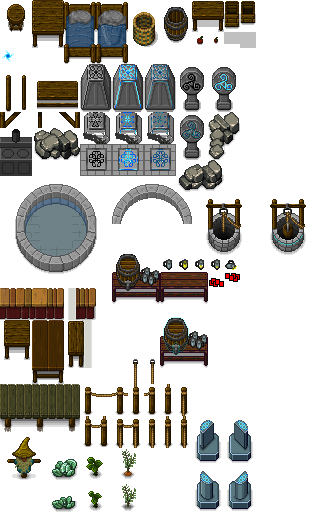
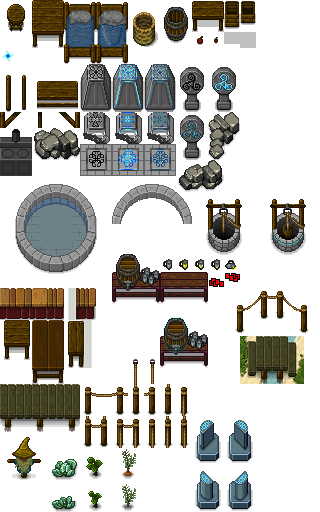
add bridge to se island

Changed region(s): [[0.7188, 0.5625, 0.9688, 0.75]]

diff --git a/js/worldGen.js b/js/worldGen.js
@@ -861,9 +861,9 @@ class WorldGen {
                     "0003","0X2j","0X2j","0X2j","0002","0002","0002","0X4b","0002","0002","0002","0002","0002","0002","0002","0002",
                     "0003","0003","0003","0002","0002","0002","0002","0002","0002","0002","0002","0X2j","0X2j","0002","0002","0002",
                     "0003","0003","0003","0002","0002","0002","0002","0002","0002","0002","0X2j","0X2j","0X2j","0002","0002","0002",
-                    "0X2j","0X2j","0X2j","0002","0002","0002","0002","0002","0002","0X2j","0X2j","0X2j","0X2j","0X2j","0002","0002",
-                    "0X2j","0X2j","0X2j","0002","0002","0002","0002","0002","0X2j","0X2j","0X2j","0X2j","0X2j","0X2j","0002","0002",
-                    "0X2j","0002","0002","0002","0002","0002","0002","0X2j","0X2j","0X2j","0X2j","0X2j","0X2j","0X2j","0002","0002",
+                    "0X2j","0X2j","0X2j","0000","0000","0000","0000","0002","0002","0X2j","0X2j","0X2j","0X2j","0X2j","0002","0002",
+                    "0X2j","0X2j","0X2j","0000","0000","0000","0000","0002","0X2j","0X2j","0X2j","0X2j","0X2j","0X2j","0002","0002",
+                    "0X2j","0002","0002","003k","0000","0000","0000","0X2j","0X2j","0X2j","0X2j","0X2j","0X2j","0X2j","0002","0002",
                     "0002","0002","0002","0002","0002","0002","0002","0X2j","0X2j","0X2j","0X2j","0X2j","0X2j","0X2j","0002","0002",
                     "0002","0002","0002","0X4c","0X4e","0002","0002","0X2j","0X2j","0X2j","0X2j","0X2j","0X2j","0X2j","0002","0002",
                     "0X4d","0X4d","0X4d","0X4h","0X4g","0002","0002","0X2j","0X2j","0X2j","0X2j","0X2j","0X2j","0X2j","0002","0002",
@@ -879,9 +879,9 @@ class WorldGen {
                     "0X2m","0000","0000","0000","0X2n","0X2o","0X3f","0000","0X3n","0X3o","0X2c","0X2d","0X2d","0X2e","0X3k","0X3m",
                     "0X2a","0X2l","0X2m","0X2n","0X2o","0X3c","0X3h","0X3n","0X3o","0X2c","0X2h","0000","0000","0X2g","0000","0X3f",
                     "0X2i","0X2d","0X2h","0X2g","0X3c","0X3h","0X3n","0X3o","0X2c","0X2h","0000","0000","0000","0X2i","0X2e","0X3f",
-                    "0000","0000","0000","0X2g","0X3f","0X3n","0X3o","0X2c","0X2h","0000","0000","0000","0000","0000","0X2g","0X3f",
-                    "0000","0000","0000","0X2g","0X3f","0X3g","0X2c","0X2h","0000","0000","0000","0000","0000","0000","0X2g","0X3f",
-                    "0000","0X2n","0X2l","0X2o","0X3f","0X3g","0X2f","0000","0000","0000","0000","0000","0000","0000","0X2g","0X3f",
+                    "0000","0000","0000","0000","0000","0000","0000","0X2c","0X2h","0000","0000","0000","0000","0000","0X2g","0X3f",
+                    "0000","0000","0000","0000","0000","0000","0000","0X2h","0000","0000","0000","0000","0000","0000","0X2g","0X3f",
+                    "0000","0X2n","0X2l","0000","0000","0000","0000","0000","0000","0000","0000","0000","0000","0000","0X2g","0X3f",
                     "0X2l","0X2o","0X3c","0X3d","0X3h","0X3g","0X2f","0000","0000","0000","0000","0000","0000","0000","0X2g","0X3f",
                     "0X3d","0X3d","0X3h","0000","0000","0X3g","0X2f","0000","0000","0000","0000","0000","0000","0000","0X2g","0X3f",
                     "0000","0000","0000","0000","0000","0X3g","0X2f","0000","0000","0000","0000","0000","0000","0000","0X2g","0X3f",
@@ -909,81 +909,79 @@ class WorldGen {
                     "0000","0000","0000","0000","0000","0000","0000","0000","0000","0000","0000","0000","0000","0000","0000","0000",
                 ],
             },
-            l2: {
-            },
         },
     };
 
-static vendor1 = {
-    tag: "vendor1",
-    columns: 13,
-    rows: 12,
-    offx: 46,
-    offy: 25,
-    autoArea: true,
-    layers: {
-        l1: {
-            bg: [
-                "0000","0000","0003","0003","0003","0000","0000","0000","0000","0000","0000","0000","0000",
-                "0000","0003","0003","0003","0003","0000","0000","0000","0000","0000","0000","0000","0000",
-                "0000","0003","0003","0003","0003","0003","0000","0000","0000","0000","0000","0000","0000",
-                "0003","0003","0003","0003","0003","0003","0003","0003","0000","0000","0000","0000","0000",
-                "0003","0003","0003","0003","0003","0003","0003","0003","0003","0000","0000","0000","0000",
-                "0003","0003","0003","0003","0003","0003","0003","0003","0003","0000","0000","0000","0000",
-                "0003","0003","0003","0003","0003","0003","0003","0003","0003","0003","0003","0003","0000",
-                "0003","0003","0003","0003","0003","0003","0003","0003","0003","0003","0003","0003","0003",
-                "0000","0003","0003","0003","0003","0003","0003","0003","0003","0000","0000","0003","0003",
-                "0000","0000","0000","0003","0000","0000","0003","0000","0000","0000","0000","0000","0000",
-                "0000","0000","0000","0003","0000","0000","0003","0000","0000","0000","0000","0000","0000",
-                "0000","0000","0000","0000","0003","0003","0000","0000","0000","0000","0000","0000","0000",
-            ],
-            bgo: [
-                "0000","0000","0X2n","0X2l","0X2m","0000","0000","0000","0000","0000","0000","0000","0000",
-                "0000","0X2n","0X2o","0000","0X2f","0000","0000","0000","0000","0000","0000","0000","0000",
-                "0000","0X2g","0000","0000","0X2k","0X2m","0000","0000","0000","0000","0000","0000","0000",
-                "0X2n","0X2o","0000","0000","0000","0X2k","0X2l","0X2m","0000","0000","0000","0000","0000",
-                "0X2g","0000","0000","0000","0000","0000","0000","0X2k","0X2m","0000","0000","0000","0000",
-                "0X2g","0000","0000","0000","0000","0000","0000","0X2c","0X2h","0000","0000","0000","0000",
-                "0X2g","0000","0000","0000","0000","0000","0000","0X2f","0X2n","0X2m","0X2n","0X2m","0000",
-                "0X2i","0X2e","0000","0000","0000","0000","0000","0X2k","0X2b","0X2h","0X2i","0X2a","0X2m",
-                "0000","0X2i","0X2d","0X2e","0003","0003","0X2c","0X2d","0X2h","0000","0000","0X2i","0X2h",
-                "0000","0000","0000","0X2g","0000","0000","0X2f","0000","0000","0000","0000","0000","0000",
-                "0000","0000","0000","0X2i","0o0f","0000","0X2h","0000","0000","0000","0000","0000","0000",
-                "0000","0000","0000","0000","0X2i","0X2h","0000","0000","0000","0000","0000","0000","0000",
-            ],
-            fg: [
-                "0000","0000","0000","0000","0000","0000","0000","0000","0000","0000","0000","000q","0000",
-                "0000","0000","0000","0000","0000","0000","0000","0000","0000","0000","0000","0000","0000",
-                "0000","0000","000S","0000","0000","0000","0000","000I","0000","0000","0000","0000","0000",
-                "0000","0000","0000","0000","0000","0000","0000","0000","0000","0000","0000","0000","0000",
-                "000N","0000","000M","0000","0000","0000","000M","0000","0000","0000","0000","0000","0000",
-                "0000","0000","000I","0000","0000","0000","0000","000R","0000","0000","0000","0000","0000",
-                "0o08","0000","0000","0000","0000","0000","0000","0000","0000","0000","0000","0000","0000",
-                "000O","0000","0000","0000","0000","0000","0o0a","0o0b","0000","0000","0000","0000","0000",
-                "0000","0000","000M","0000","0o09","0000","000M","0000","0000","0000","0000","0000","0000",
-                "0000","0000","0000","0000","0000","0000","0000","0000","0000","0000","0000","000r","000H",
-                "000G","0000","0000","0000","0000","0000","0000","0000","000r","0000","0000","0000","000r",
-                "0000","0000","0000","0000","0000","0000","0000","0000","000r","0000","0000","0000","0003",
-            ],
+    static vendor1 = {
+        tag: "vendor1",
+        columns: 13,
+        rows: 12,
+        offx: 46,
+        offy: 25,
+        autoArea: true,
+        layers: {
+            l1: {
+                bg: [
+                    "0000","0000","0003","0003","0003","0000","0000","0000","0000","0000","0000","0000","0000",
+                    "0000","0003","0003","0003","0003","0000","0000","0000","0000","0000","0000","0000","0000",
+                    "0000","0003","0003","0003","0003","0003","0000","0000","0000","0000","0000","0000","0000",
+                    "0003","0003","0003","0003","0003","0003","0003","0003","0000","0000","0000","0000","0000",
+                    "0003","0003","0003","0003","0003","0003","0003","0003","0003","0000","0000","0000","0000",
+                    "0003","0003","0003","0003","0003","0003","0003","0003","0003","0000","0000","0000","0000",
+                    "0003","0003","0003","0003","0003","0003","0003","0003","0003","0003","0003","0003","0000",
+                    "0003","0003","0003","0003","0003","0003","0003","0003","0003","0003","0003","0003","0003",
+                    "0000","0003","0003","0003","0003","0003","0003","0003","0003","0000","0000","0003","0003",
+                    "0000","0000","0000","0003","0000","0000","0003","0000","0000","0000","0000","0000","0000",
+                    "0000","0000","0000","0003","0000","0000","0003","0000","0000","0000","0000","0000","0000",
+                    "0000","0000","0000","0000","0003","0003","0000","0000","0000","0000","0000","0000","0000",
+                ],
+                bgo: [
+                    "0000","0000","0X2n","0X2l","0X2m","0000","0000","0000","0000","0000","0000","0000","0000",
+                    "0000","0X2n","0X2o","0000","0X2f","0000","0000","0000","0000","0000","0000","0000","0000",
+                    "0000","0X2g","0000","0000","0X2k","0X2m","0000","0000","0000","0000","0000","0000","0000",
+                    "0X2n","0X2o","0000","0000","0000","0X2k","0X2l","0X2m","0000","0000","0000","0000","0000",
+                    "0X2g","0000","0000","0000","0000","0000","0000","0X2k","0X2m","0000","0000","0000","0000",
+                    "0X2g","0000","0000","0000","0000","0000","0000","0X2c","0X2h","0000","0000","0000","0000",
+                    "0X2g","0000","0000","0000","0000","0000","0000","0X2f","0X2n","0X2m","0X2n","0X2m","0000",
+                    "0X2i","0X2e","0000","0000","0000","0000","0000","0X2k","0X2b","0X2h","0X2i","0X2a","0X2m",
+                    "0000","0X2i","0X2d","0X2e","0003","0003","0X2c","0X2d","0X2h","0000","0000","0X2i","0X2h",
+                    "0000","0000","0000","0X2g","0000","0000","0X2f","0000","0000","0000","0000","0000","0000",
+                    "0000","0000","0000","0X2i","0o0f","0000","0X2h","0000","0000","0000","0000","0000","0000",
+                    "0000","0000","0000","0000","0X2i","0X2h","0000","0000","0000","0000","0000","0000","0000",
+                ],
+                fg: [
+                    "0000","0000","0000","0000","0000","0000","0000","0000","0000","0000","0000","000q","0000",
+                    "0000","0000","0000","0000","0000","0000","0000","0000","0000","0000","0000","0000","0000",
+                    "0000","0000","000S","0000","0000","0000","0000","000I","0000","0000","0000","0000","0000",
+                    "0000","0000","0000","0000","0000","0000","0000","0000","0000","0000","0000","0000","0000",
+                    "000N","0000","000M","0000","0000","0000","000M","0000","0000","0000","0000","0000","0000",
+                    "0000","0000","000I","0000","0000","0000","0000","000R","0000","0000","0000","0000","0000",
+                    "0o08","0000","0000","0000","0000","0000","0000","0000","0000","0000","0000","0000","0000",
+                    "000O","0000","0000","0000","0000","0000","0o0a","0o0b","0000","0000","0000","0000","0000",
+                    "0000","0000","000M","0000","0o09","0000","000M","0000","0000","0000","0000","0000","0000",
+                    "0000","0000","0000","0000","0000","0000","0000","0000","0000","0000","0000","000r","000H",
+                    "000G","0000","0000","0000","0000","0000","0000","0000","000r","0000","0000","0000","000r",
+                    "0000","0000","0000","0000","0000","0000","0000","0000","000r","0000","0000","0000","0003",
+                ],
+            },
+            l2: {
+                fg: [
+                    "0000","0000","0000","0000","0000","0000","0000","0000","0000","0000","0000","0000","0000",
+                    "0000","0000","0000","0000","0000","0000","0000","0000","0000","0000","0000","0000","0000",
+                    "0000","0000","0000","0000","0000","0000","0000","0000","0000","0000","0000","0000","0000",
+                    "0000","0000","0000","0000","0000","0000","0000","0000","0000","0000","0000","0000","0000",
+                    "0000","0000","0000","0000","0000","0000","0000","0000","0000","0000","0000","0000","0000",
+                    "0000","0000","0000","0000","0000","0000","0000","0000","0000","0000","0000","0000","0000",
+                    "0000","0000","0000","0000","0000","0000","0000","0000","0000","0000","0000","0000","0000",
+                    "0000","0000","0000","0000","0000","0000","0000","0000","0000","0000","0000","0000","0000",
+                    "000Q","0000","0000","0000","0000","0000","0000","0000","0000","0000","0000","0000","0000",
+                    "0000","0000","0000","0000","0000","0000","0000","0000","0000","0000","0000","0000","0000",
+                    "0000","0000","0000","0000","0000","0000","0000","0000","0000","0000","0000","0000","0000",
+                    "0000","0000","0000","0000","0000","0000","0000","0000","0000","0000","0000","0000","0000",
+                ],
+            },
         },
-        l2: {
-            fg: [
-                "0000","0000","0000","0000","0000","0000","0000","0000","0000","0000","0000","0000","0000",
-                "0000","0000","0000","0000","0000","0000","0000","0000","0000","0000","0000","0000","0000",
-                "0000","0000","0000","0000","0000","0000","0000","0000","0000","0000","0000","0000","0000",
-                "0000","0000","0000","0000","0000","0000","0000","0000","0000","0000","0000","0000","0000",
-                "0000","0000","0000","0000","0000","0000","0000","0000","0000","0000","0000","0000","0000",
-                "0000","0000","0000","0000","0000","0000","0000","0000","0000","0000","0000","0000","0000",
-                "0000","0000","0000","0000","0000","0000","0000","0000","0000","0000","0000","0000","0000",
-                "0000","0000","0000","0000","0000","0000","0000","0000","0000","0000","0000","0000","0000",
-                "000Q","0000","0000","0000","0000","0000","0000","0000","0000","0000","0000","0000","0000",
-                "0000","0000","0000","0000","0000","0000","0000","0000","0000","0000","0000","0000","0000",
-                "0000","0000","0000","0000","0000","0000","0000","0000","0000","0000","0000","0000","0000",
-                "0000","0000","0000","0000","0000","0000","0000","0000","0000","0000","0000","0000","0000",
-            ],
-        },
-    },
-};
+    };
 
     static fountain = {
         tag: "fountain",

diff --git a/js/sparkAssets.js b/js/sparkAssets.js
@@ -492,6 +492,8 @@ class SparkAssets {
                 Templates.xsprite("plant.cabbage.nv",   3, 30, { width: 16*2, height: 16*2 }),
                 Templates.xsprite("plant.potato.nv",    5, 30, { width: 16*2, height: 16*2 }),
                 Templates.xsprite("plant.carrot.nv",    7, 30, { width: 16*2, height: 16*2 }),
+                Templates.xsprite("bridge.rail",        14, 18, { width: 16*6, height: 16*3 }),
+                Templates.xsprite("bridge",             15, 21, { width: 16*4, height: 16*3 }),
             ]},
 
             { tag: "well", 
@@ -1200,9 +1202,12 @@ class SparkAssets {
             Templates.tile("03d", "stoneWall.2",        {offx: 8, offy: -16, xcollider: {width: 28, height: 36, offy: 4}}),
             Templates.tile("03e", "stoneWall.3",        {offx: 16, offy: -8, xcollider: {width: 44, height: 20, offy: 4}}),
             Templates.tile("03f", "well",               {offx: 24, offy: -24, xcollider: {width: 24, height: 24, offy: 16}, sparkable: true}),
-            Templates.tile("03g", "plant.cabbage.nv",      {offx: 8, offy: -8}),
-            Templates.tile("03h", "plant.potato.nv",       {offx: 8, offy: -8}),
-            Templates.tile("03i", "plant.carrot.nv",       {offx: 8, offy: -8}),
+            Templates.tile("03g", "plant.cabbage.nv",   {offx: 8, offy: -8}),
+            Templates.tile("03h", "plant.potato.nv",    {offx: 8, offy: -8}),
+            Templates.tile("03i", "plant.carrot.nv",    {offx: 8, offy: -8}),
+            Templates.tile("03j", "bridge.rail",        {offx: 40, offy: -16}),
+            Templates.tile("03k", "bridge",             {offx: 24, offy: -16, xcollider: {width: 32, height: 12, offy: 16}}),
+            Templates.tile("03l", "bridge.rail.upper",  {mediaTag: "bridge.rail", offx: 40, offy: -26}),
 
             // ------------------------------------------------------------------------------
 
